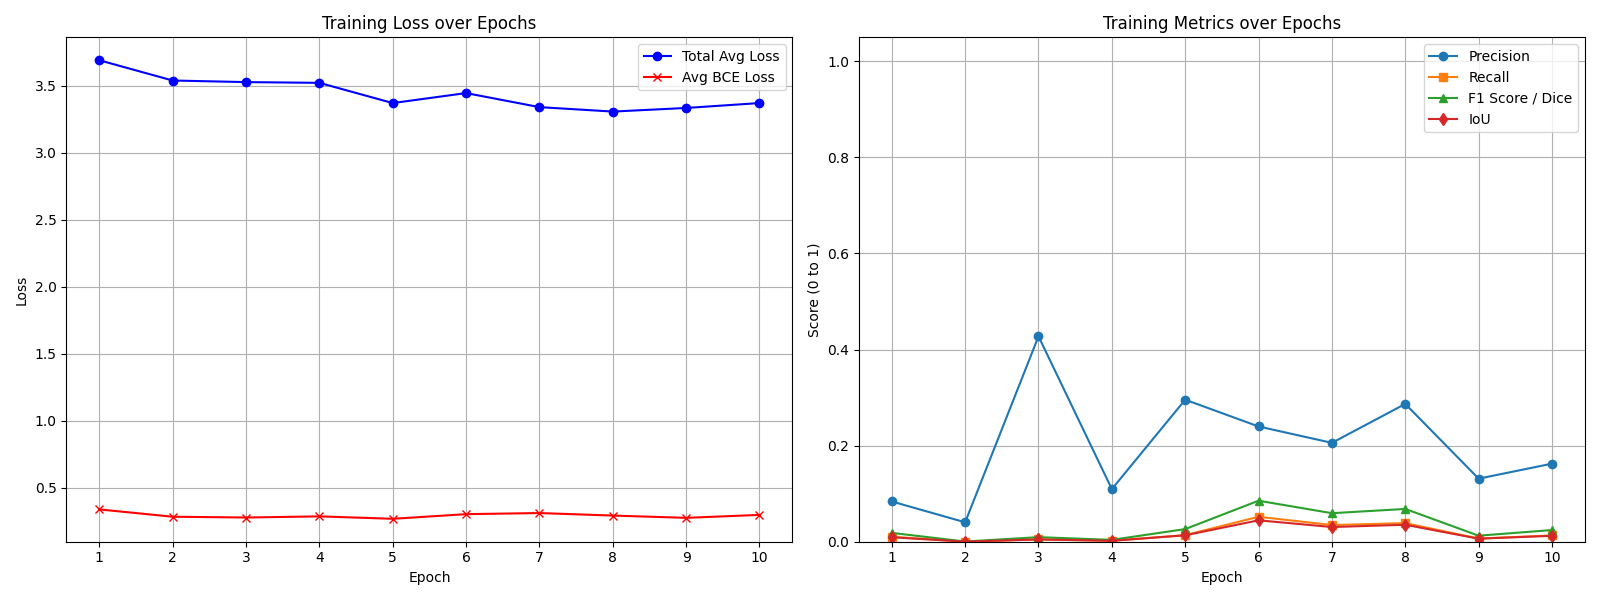
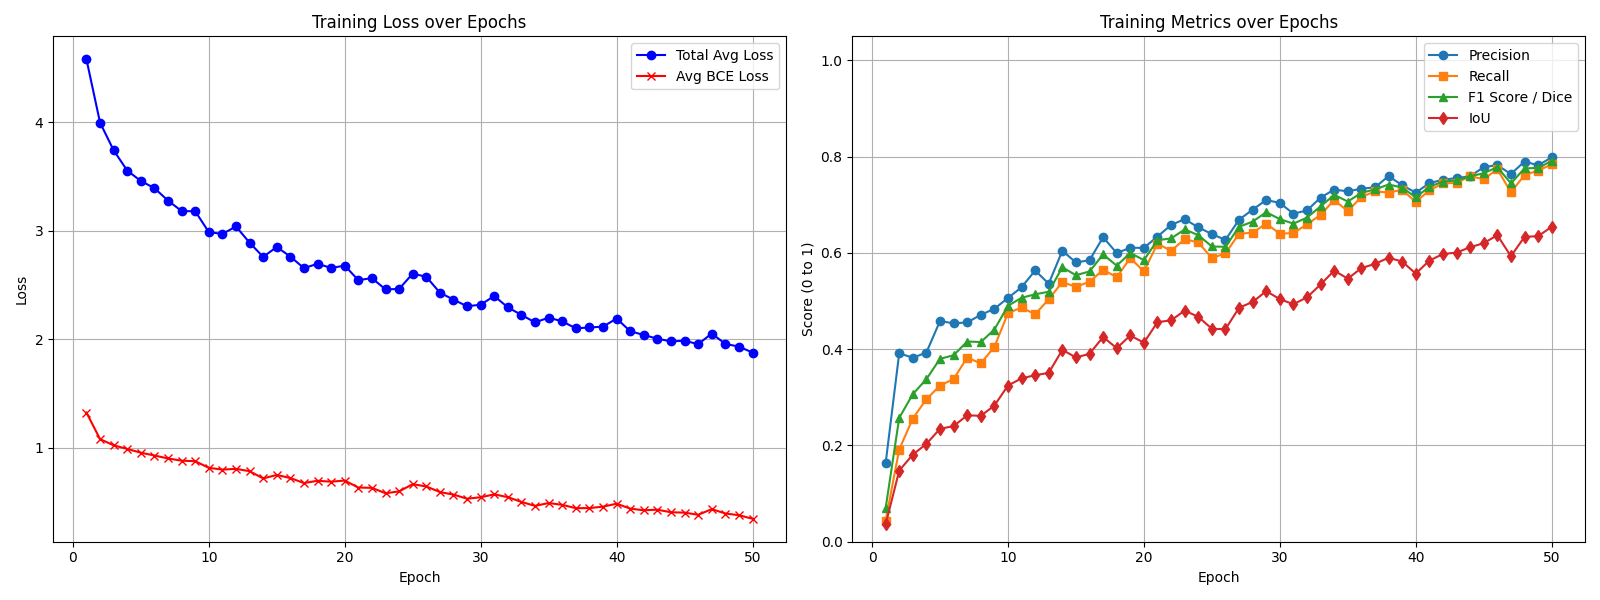
feat: add dice loss as loss function for training model.

diff --git a/skripsi_code/train.py b/skripsi_code/train.py
@@ -11,6 +11,21 @@ from models.seg_hrnet_config import get_cfg_defaults
 from models.NLCDetection_loc import NLCDetection
 from utils.custom_loss import IsolatingLossFunction
 
+class DiceLoss(nn.Module):
+    def __init__(self, smooth=1.0):
+        super(DiceLoss, self).__init__()
+        self.smooth = smooth
+
+    def forward(self, inputs, targets):
+        # Flatten inputs and targets
+        inputs = inputs.view(-1)
+        targets = targets.view(-1)
+        
+        intersection = (inputs * targets).sum()                            
+        dice = (2.*intersection + self.smooth)/(inputs.sum() + targets.sum() + self.smooth)  
+        
+        return 1 - dice
+
 def get_device():
     if torch.cuda.is_available():
         return torch.device('cuda')
@@ -29,9 +44,9 @@ def train():
         # mask_dir='data-CASIA1/mask',
         # txt_dir='data-CASIA1/alllist.txt' if os.path.exists('data-NIST16/alllist.txt') else None
 
-        fake_dir='data-NIST16/probe',
-        mask_dir='data-NIST16/mask',
-        txt_dir='data-NIST16/alllist.txt' if os.path.exists('data-NIST16/alllist.txt') else None
+        mask_dir='manipulated_data_NIST16/mask',
+        fake_dir='manipulated_data_NIST16/probe',
+        txt_dir='manipulated_data_NIST16/alllist.txt' if os.path.exists('manipulated_data_NIST16/alllist.txt') else None
     )
     dataloader = DataLoader(dataset, batch_size=8, shuffle=True, num_workers=0, drop_last=True)
 
@@ -47,10 +62,11 @@ def train():
     
     # 3. Setup Optimizers
     params = list(FENet.parameters()) + list(SegNet.parameters())
-    optimizer = torch.optim.Adam(params, lr=1e-3)
+    optimizer = torch.optim.Adam(params, lr=1e-4)
 
     # 4. Setup Losses
     bce_loss_fn = nn.BCELoss()
+    dice_loss_fn = DiceLoss()
     ce_loss_fn = nn.CrossEntropyLoss()
 
     use_isolating_loss = False
@@ -66,7 +82,7 @@ def train():
         print("Precomputed center/radius not found, skipping Isolating Loss. (Using BCE only).")
 
     # 5. Training Loop
-    epochs = 10
+    epochs = 50
     
     # Initialize metric logging
     os.makedirs('logs', exist_ok=True)
@@ -108,7 +124,11 @@ def train():
                 total_fn += fn
             
             # Compute Losses
-            loss_bce = bce_loss_fn(mask_binary, masks)
+            loss_bce_only = bce_loss_fn(mask_binary, masks)
+            loss_dice = dice_loss_fn(mask_binary, masks)
+            
+            # BCE + Dice Loss mengatasi class imbalance
+            loss_bce = loss_bce_only + loss_dice
             
             if use_isolating_loss:
                 loss_metric, mani_loss, nat_loss = isolating_loss_fn(mask_feat, masks)

diff --git a/skripsi_code/test.py b/skripsi_code/test.py
@@ -20,9 +20,13 @@ def evaluate_and_visualize():
 
     # 1. Dataset & DataLoader (We use the same sample folders for demo purposes)
     dataset = ForgeryDataset(
-        fake_dir='data-NIST16/probe',
-        mask_dir='data-NIST16/mask',
-        txt_dir='data-NIST16/alllist.txt' if os.path.exists('data-NIST16/alllist.txt') else None
+        # fake_dir='data-CASIA1/fake',
+        # mask_dir='data-CASIA1/mask',
+        # txt_dir='data-CASIA1/alllist.txt' if os.path.exists('data-NIST16/alllist.txt') else None
+
+        mask_dir='manipulated_data_NIST16/mask',
+        fake_dir='manipulated_data_NIST16/probe',
+        txt_dir='manipulated_data_NIST16/alllist.txt' if os.path.exists('manipulated_data_NIST16/alllist.txt') else None
     )
     dataloader = DataLoader(dataset, batch_size=1, shuffle=False)
 